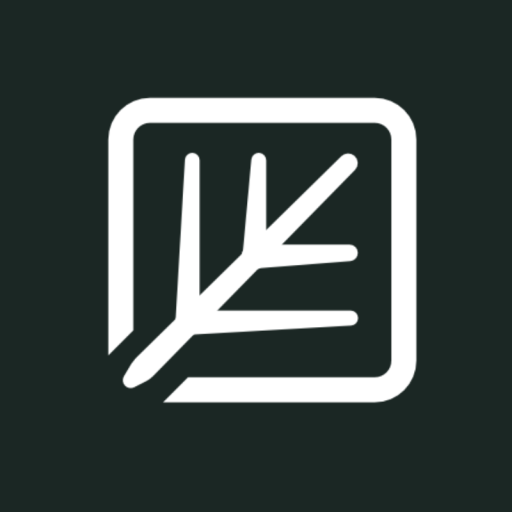
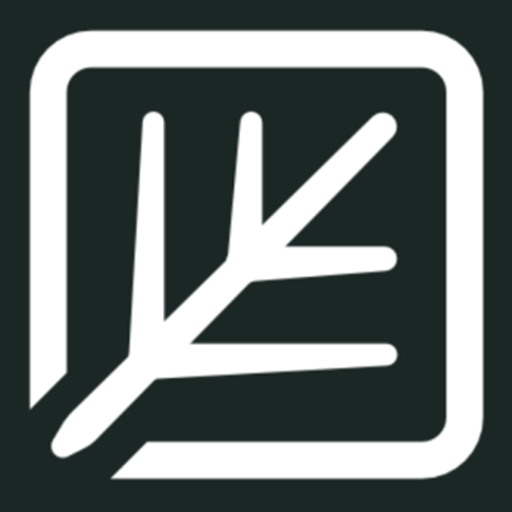
Implemented Lauren's feedback & updated all stock images

diff --git a/acc-page/layouts/partials/views/community/showcase_rounded.html b/acc-page/layouts/partials/views/community/showcase_rounded.html
@@ -58,7 +58,7 @@
       {{ with $resource }}
         {{ $image := .Resize "540x webp" }}
         {{if $do_link}}<a href="{{ $link }}" {{ $target | safeHTMLAttr }}>{{end}}
-          <img src="{{ $image.RelPermalink }}" height="{{ $image.Height }}" width="{{ $image.Width }}" style="border-radius:5%" 
+          <img src="{{ $image.RelPermalink }}" height="{{ $image.Height }}" width="{{ $image.Width }}" style="border-radius:5%; padding: 0px 0px 15px 0px" 
               alt="{{ $item.Title }}" loading="lazy">
         {{if $do_link}}</a>{{end}}
       {{end}}

diff --git a/acc-page/assets/scss/custom.scss b/acc-page/assets/scss/custom.scss
@@ -1,3 +1,10 @@
 .big_headline h1 {
 font-size: 300%;
 }
+.brief h3 {
+font-size: 120%;
+font-weight: 500;
+}
+.navbar {
+height: 110px;
+}

diff --git a/acc-page/content/project/two/index.md b/acc-page/content/project/two/index.md
@@ -26,8 +26,11 @@ reading_time: false
 
 <style>
 p.caption {
-  font-size: 0.8em;
+  font-size: 0.9em;
   padding: 0px 0px 40px 0px;
+}
+qt {
+  color:#cccccc;
 }
 </style>
 
@@ -43,9 +46,13 @@ Building on the client’s question like this added **valuable but tricky nuance
 
 Some analyses are easy to interpret – we can summarize them with simple bar graphs or time series. But as problems become more complex so do the analyses and their outputs.
 
-> *"We felt the team at Ecodata really valued our time. They walked us through the specifics, but always brought things back to the key highlights. Results and implications of the analyses were clear... we never felt lost in the gritty details."*
+> <qt>*"We felt the team at Ecodata really valued our time. They walked us through the specifics, but always brought things back to the key highlights. Results and implications of the analyses were clear... we never felt lost in the gritty details."*</qt>
 
-One such analysis is the binomial GLM, a powerful tool for yes/no data like our client provided. But the outputs can be tricky to visualize, and tricker when different segments arise in the data such as geography. **Our consultants worked closely with the client explain these outputs comprehensively, but clearly.**
+One such analysis is the binomial GLM, a powerful tool for yes/no data like our client provided. But the outputs can be tricky to visualize, and tricker when different segments arise in the data such as geography.
+
+<img src="consult.jpg" style="border-radius: 5%;" />
+
+**Our consultants worked closely with the client explain these outputs comprehensively, but clearly.**
 
 ## A case study: how we leverage simple yes/no surveys
 
@@ -95,7 +102,7 @@ On the other hand, we’re much less confident about how temperature impacts the
 
 The p-value summarizes how confident we are in the model conclusions, or the risk that our model is *wrong*. This kind of uncertainty is helpful: **clients can use model uncertainty to make informed business decisions by placing a dollar value on risk.**
 
-<img src="thinking.jpg" style="border-radius: 5%;" />
+<img src="analyst.jpg" style="border-radius: 5%;" />
 
 In California, a p-value under 0.001 says we’re very confident that spraying at high temperatures would just be a waste - **there's only a 0.1% chance our conclusion is wrong.** Growers can estimate the cost of *not* spraying (e.g. pest damage), adjust for the chance our model is wrong (0.1%), and compare to the savings made by not (wastefully) spraying.
 
@@ -103,6 +110,8 @@ By contrast, in the Florida model we have a p-value of 0.82. So there’s a 82% 
 
 ## Distilling things down to actionable insights
 
+<img src="station.jpg" style="border-radius: 5%;" />
+
 Here we'd advise our client to give strong guidance to citrus growers in California. But for end-users in Florida, their advice should be transparent but qualified.
 
-> *"The take-home was simple: don't waste our herbicide above 88F. Clear advice for West Coast orchards made it easy for us to ensure customer satisfaction. We wanted to provide the same kind of clear guidance to our customers in the East, so we asked Ecodata to drill further into the Florida data."*
+> <qt>*"The take-home was simple: don't waste our herbicide above 88F. Clear advice for West Coast orchards made it easy for us to ensure customer satisfaction. We wanted to provide the same kind of clear guidance to our customers in the East, so we asked Ecodata to drill further into the Florida data."*</qt>

diff --git a/acc-page/content/project/three/index.md b/acc-page/content/project/three/index.md
@@ -28,8 +28,11 @@ reading_time: no
 
 <style>
 p.caption {
-  font-size: 0.8em;
+  font-size: 0.9em;
   padding: 0px 0px 40px 0px;
+}
+qt {
+  color:#cccccc;
 }
 </style>
 
@@ -37,7 +40,7 @@ p.caption {
 
 A key difference between growing in the moist East Coast and West Coast is cloud cover. Florida has twice as many cloudy days as California on average.
 
-<img src="cloud_map.svg" style="border-radius: 5%;" />
+<img src="landsat.jpg" style="border-radius: 5%;" />
 
 Dense cloud cover blocks UV rays, but also starves fast-growing crop plants of light for photosynthesis. **Both factors can affect agrochemical products.**
 
@@ -48,8 +51,6 @@ Leveraging location information and end-user surveys provided by the client, we 
 Cloudiness is easy to define but hard to measure with remote sensing. LandSat 8 is a satellite photography program that hosts images taken of the Earths surface. We can’t just download the photos – these are millions of high-resolution images.
 
 To explore how cloud cover impacted product outcomes in Florida, **we needed to estimate cloud cover on farms for the entire week prior to product application.**
-
-<img src="landsat.jpg" style="border-radius: 5%;" />
 
 ## How we extracted cloud cover data
 
@@ -78,13 +79,14 @@ get_cc <- function(buffer) {
 
 We then calculated which proportion of the photograph was covered with thick clouds (% cover) using R. We took the average values for the week prior and viola – **user surveys were enriched with weekly % cloud cover, specific to each farm that used our client’s herbicide.**
 
-<table class=" lightable-minimal" style='font-family: "Trebuchet MS", verdana, sans-serif; margin-left: auto; margin-right: auto;'>
+<div style="border: 0; overflow-x: auto; padding: 5px;"><table class=" lightable-minimal" style="font-family: Roboto; margin-left: auto; margin-right: auto;">
+<caption>Table 1: Sample of the end-user survey provided to us by the client, enriched with cloud cover data (GPS coordinates omitted).</caption>
  <thead>
   <tr>
    <th style="text-align:left;"> State </th>
-   <th style="text-align:left;"> Product_success </th>
-   <th style="text-align:right;"> Daily_high_temp </th>
-   <th style="text-align:right;"> Cloud_cover </th>
+   <th style="text-align:left;"> Product success </th>
+   <th style="text-align:right;"> Daily high temp. (F) </th>
+   <th style="text-align:right;"> Cloud cover (%) </th>
   </tr>
  </thead>
 <tbody>
@@ -119,7 +121,7 @@ We then calculated which proportion of the photograph was covered with thick clo
    <td style="text-align:right;"> 0.42 </td>
   </tr>
 </tbody>
-</table>
+</table></div>
 
 ## Overall result from the cloud-cover analysis
 
@@ -139,7 +141,7 @@ However, **when accounting for temperature and cloud cover at the same time, we 
 
 ## How we improved the end-user experience
 
->*"Ecodata made the results easy to explain to our customers on the East Coast: avoid use on days with hot and clear mornings, but on overcast days it's generally safe to spray even when it's hot.*"
+> <qt>*"Ecodata made the results easy to explain to our customers on the East Coast: avoid use on days with hot and clear mornings, but on overcast days it's generally safe to spray even when it's hot.*"</qt>
 
 <img src="orchard.jpeg" style="border-radius: 5%;" />
 

diff --git a/acc-page/content/project/one/index.md b/acc-page/content/project/one/index.md
@@ -1,5 +1,4 @@
 ---
-date: "2022-12-03T00:00:00Z"
 weight: 1
 external_link: ""
 image:
@@ -27,8 +26,11 @@ reading_time: false
 
 <style>
 p.caption {
-  font-size: 0.8em;
+  font-size: 0.9em;
   padding: 0px 0px 40px 0px;
+}
+qt {
+  color:#cccccc;
 }
 </style>
 
@@ -36,7 +38,7 @@ p.caption {
 
 Agrochemical products deal with all the environmental extremes that occurs in the field. High temperatures, cold winds, and record droughts prevent products from working as intended. 
 
-> *"We suspected extraordinarily high and low temperatures might impact the performance of our agrochemical used by citrus growers, causing expensive wastage for our customers."*
+> <qt>*"We suspected extraordinarily high and low temperatures might impact the performance of our agrochemical used by citrus growers, causing expensive wastage for our customers."*</qt>
 
 <img src="img2.jpg" style="border-radius: 5%;" />
 
@@ -44,14 +46,17 @@ The client sales team had collected simple survey responses from growers, record
 
 <img src="img3.jpg" style="border-radius: 5%;" />
 
-**So what was really occurring in the field?** And if temperature was the culprit, exactly when did chemical performance degrade? Our client's survey confirmed their suspicions, but they needed hard numbers to improve their product.
+**So what was really occurring in the field?** And if temperature was the culprit, exactly when did chemical performance degrade?
 
-<div style="border: 0; padding: 5px;overflow-x: scroll; width:100%; "><table class=" lightable-minimal" style='font-family: "Trebuchet MS", verdana, sans-serif; margin-left: auto; margin-right: auto;'>
+Our client's survey confirmed their suspicions, but they needed hard numbers to improve their product.
+
+<div style="border: 0; overflow-x: auto; padding: 5px;"><table class=" lightable-minimal" style="font-family: Roboto; margin-left: auto; margin-right: auto;">
+<caption>Table 1: Sample of the initial end-user survey provided to us by the client (with GPS coordinates omitted).</caption>
  <thead>
   <tr>
    <th style="text-align:left;"> State </th>
-   <th style="text-align:left;"> Product_success </th>
-   <th style="text-align:right;"> Daily_high_temp_Farenheit </th>
+   <th style="text-align:left;"> Product success </th>
+   <th style="text-align:right;"> Daily high temp. (F) </th>
   </tr>
  </thead>
 <tbody>
@@ -85,9 +90,9 @@ The client sales team had collected simple survey responses from growers, record
 
 ## Our solution: enriching end-user surveys
 
-> *"Surprisingly, that was all the data we had to provide to Ecodata so they could start answering our questions."*
+> <qt>*"Surprisingly, that was all the data we had to provide to Ecodata so they could start answering our questions."*</qt>
 
-The rest of the information we used was generated in-house by our environmental data scientists. Daily temperatures, rainfall, even cumulative degree days - all of these were leveraged to enrich the client's existing surveys.
+The rest of the information we used was generated in-house by our environmental data scientists. Daily temperatures, rainfall, even cumulative degree days - we built a data pipeline leveraging all of these to enrich the client's existing surveys. 
 
 <img src="flowchart.png" style="border-radius: 5%;" />
 

diff --git a/acc-page/content/_index.md b/acc-page/content/_index.md
@@ -30,7 +30,7 @@ sections:
       image:
         color: '#1b2724'
         text_color_light: yes
-    css_style: 'font-size: 120%;'
+    css_class: 'brief'
     spacing:
       padding: ["20px","0","5px","0"]
 - block: portfolio
